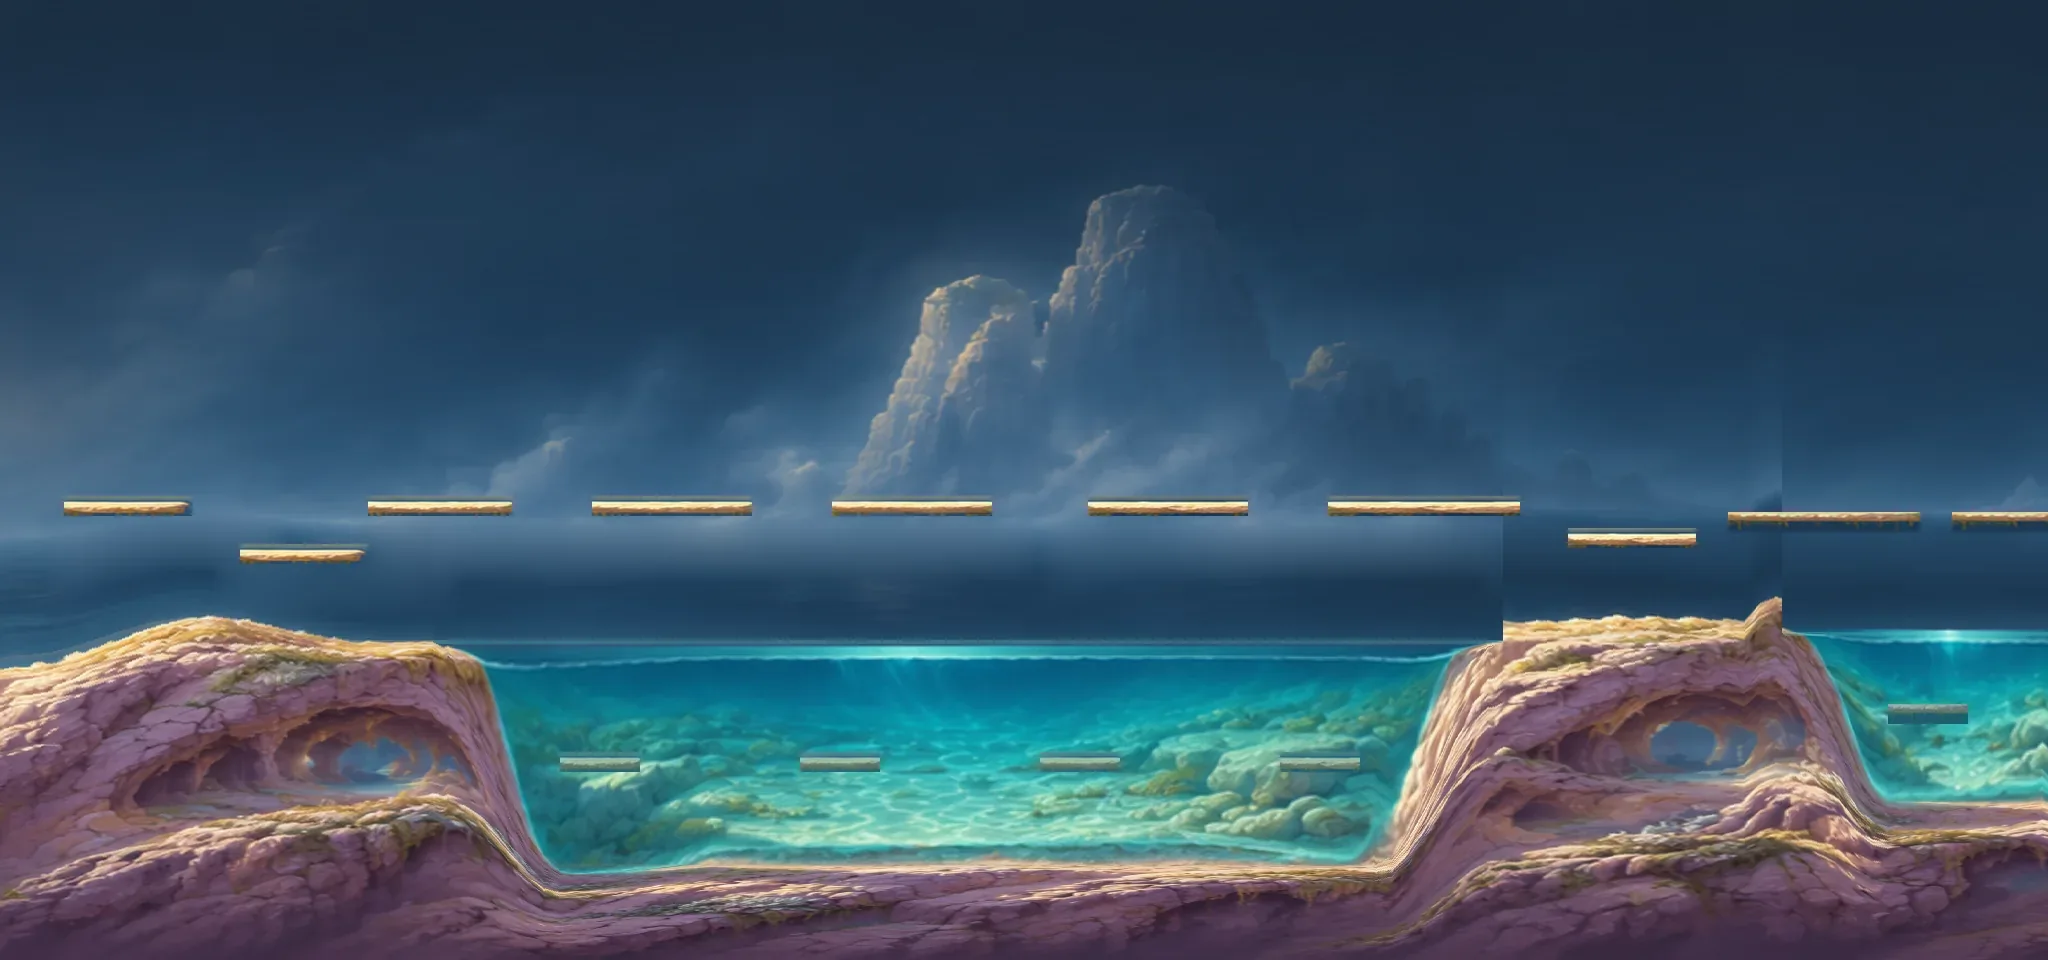
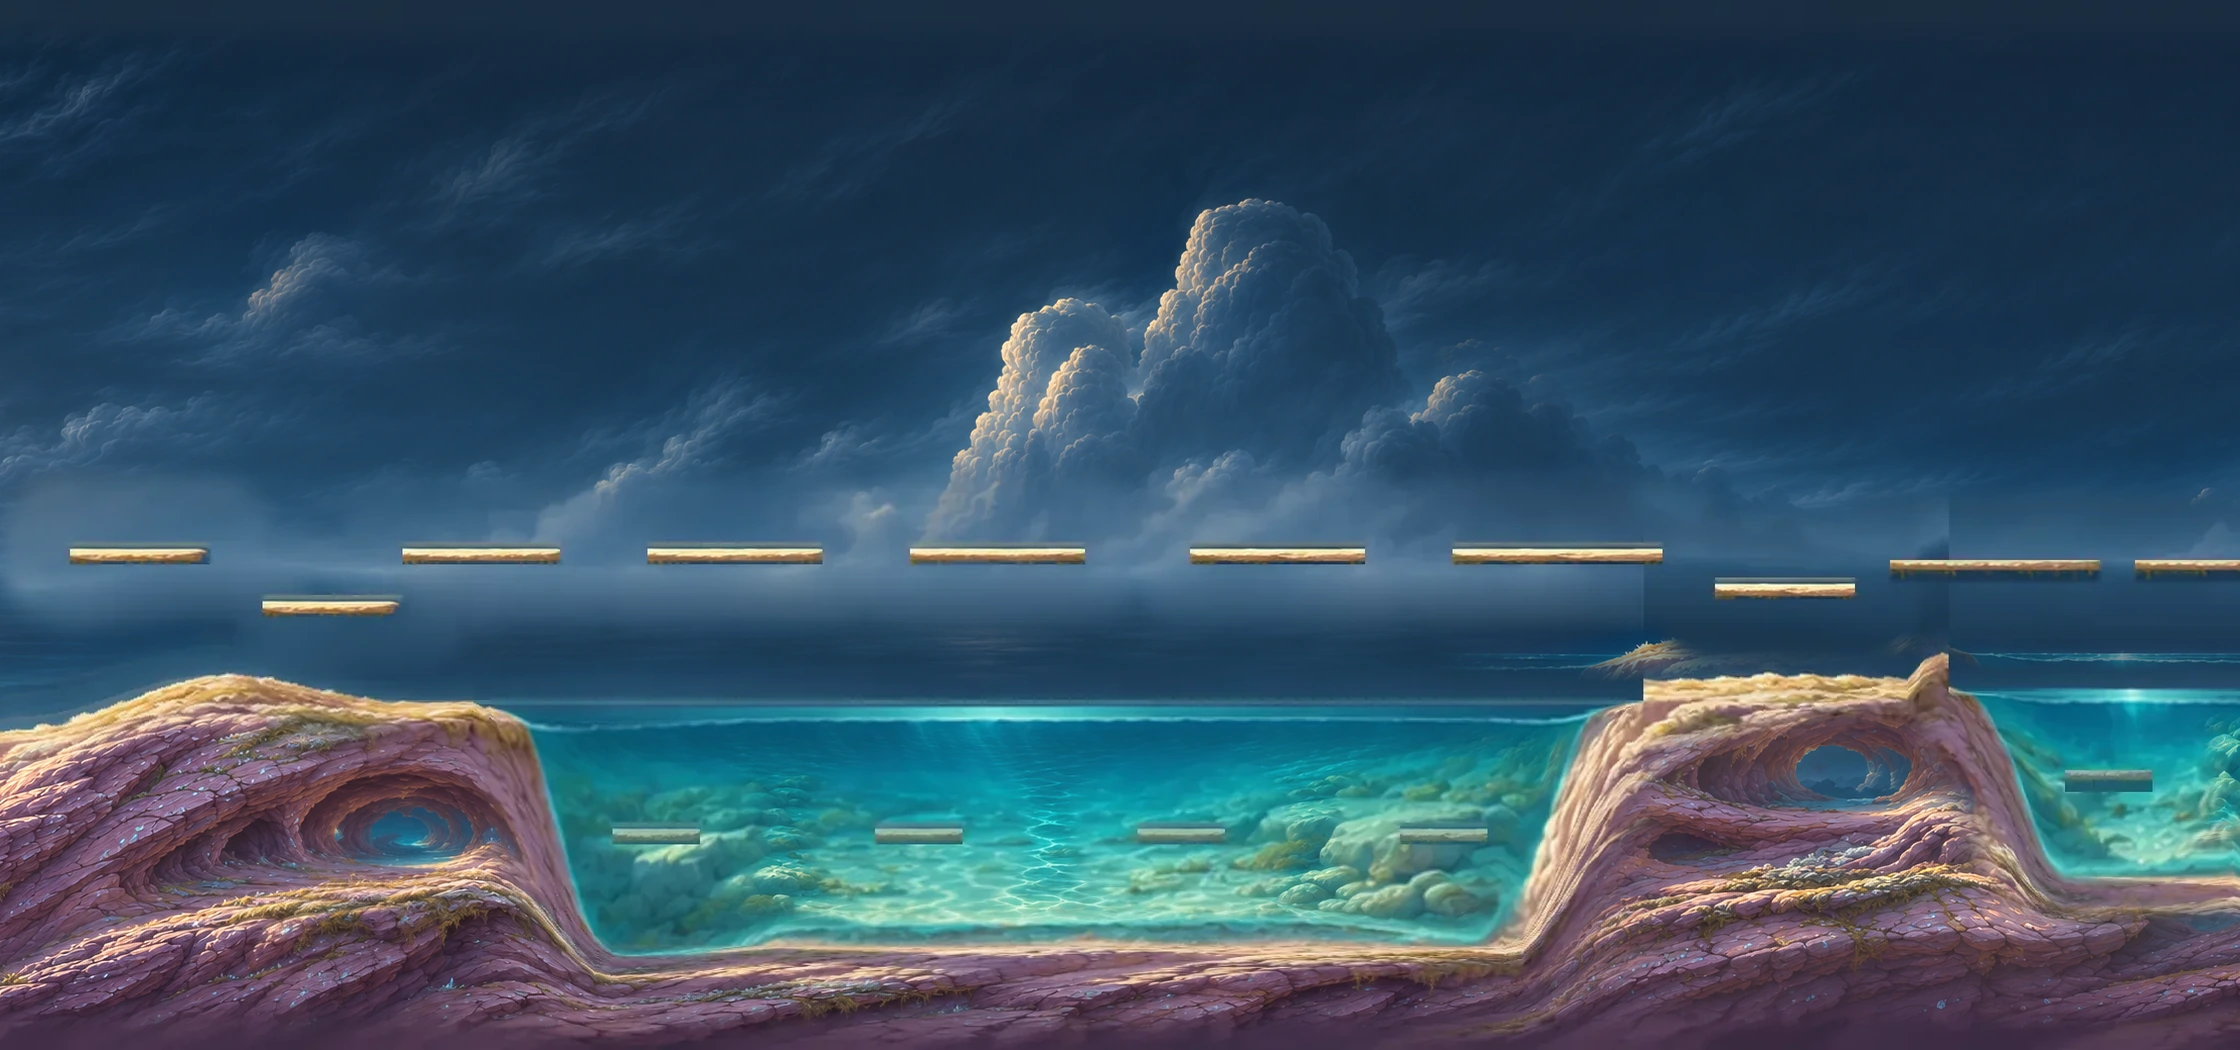
Refine Crystal Coast in four registered high-resolution crops

diff --git a/phaser/src/painted-scene.js b/phaser/src/painted-scene.js
@@ -15,14 +15,20 @@ export function sceneTextures(id,art){
 export function paintScene(scene,art){
   const width=scene.level.width*16,height=scene.level.height*16;
   const strips=art.scene?.length>1;
+  const images=sceneTextures(scene.chapter.id,art).map(({key,depth,scrollFactor})=>
+    scene.add.image(0,0,key).setOrigin(0).setDepth(depth).setScrollFactor(scrollFactor));
+  if(!strips){
+    for(const image of images)image.setDisplaySize(width,height);
+    return images;
+  }
+  const sourceWidth=images.reduce((sum,image)=>sum+image.width,0);
   let left=0;
-  return sceneTextures(scene.chapter.id,art).map(({key,depth,scrollFactor})=>{
-    const image=scene.add.image(left,0,key).setOrigin(0)
-      .setDepth(depth).setScrollFactor(scrollFactor);
-    if(strips)left+=image.width;
-    else image.setDisplaySize(width,height);
-    return image;
-  });
+  for(const image of images){
+    image.x=left*width/sourceWidth;
+    left+=image.width;
+    image.setDisplaySize(left*width/sourceWidth-image.x,height);
+  }
+  return images;
 }
 
 // Thermals are active traversal aids and stay separate from the scene painting.

diff --git a/phaser/ART-DIRECTION.md b/phaser/ART-DIRECTION.md
@@ -43,10 +43,11 @@ chapter directory as the image model's input. It contains only materials.
    A single panorama may use more source pixels than the world. Keep the
    same aspect ratio and a maximum texture edge of 4096 pixels. The
    renderer fits it to the existing world size.
-   The `scene` array lists strips from left to right. For worlds wider than
-   4096 pixels, cut the finished painting into contiguous native-sized
-   strips, currently 2048 pixels wide except the last strip. This fits
-   common WebGL limits and keeps the art continuous. Skywell uses the same
+   The `scene` array lists strips from left to right. For paintings wider
+   than 4096 pixels, cut the finished painting into contiguous strips.
+   Record the seams against world coordinates. The renderer maps each
+   strip's share of the source width to the same share of the world and
+   scales all strips to the world height. Skywell uses the same
    registry and renderer with separate background, water, and solid layers.
 4. Run `npm run check --prefix phaser`, open the standalone HTML, and use
    **V** to compare the art with collision at gameplay zoom. Check
@@ -88,3 +89,19 @@ The script feathers the approved painting around material boundaries
 while keeping the refined bark, foliage, and rock interiors. Review the
 protected result at 2× gameplay zoom and check that each ledge still has
 one readable edge before replacing the registered texture.
+
+## Crystal Coast refinement
+
+Crystal Coast keeps its 4704 × 960 world and uses a 5145 × 1050 painting.
+Crop the registered painting and guide into 1368 × 960 regions at x 0,
+1112, 2224, and 3336. The four native returns were 1497 × 1051. Fit them
+to 1497 × 1050 and use the approved crop's broad values and colors to
+match lighting through each overlap. Protect terrain edges with a 28-world-pixel
+margin before stitching. At x 0, 1216, 2432, and 3648 the 281-pixel overlaps
+measured 11.88, 8.51, and 9.63 mean absolute RGB error in their highest channels.
+
+At full scale the first stitched proof showed faint duplicate ledges.
+Composite the approved painting around ledges out to 44 world pixels,
+feathering to the refined art at 78. Check the shoreline, ledge, and strip
+seams at 2×. Cut the final painting at source x 2240 and 4480, which match
+world x 2048 and 4096, and export each strip as WebP.

diff --git a/phaser/ASSETS.md b/phaser/ASSETS.md
@@ -10,7 +10,7 @@ guide. The draft ledges were cleaned up and painted ledge detail was
 aligned to the compiled one-way spans. The last four scenes are stored
 as contiguous strips cut from one finished composition per chapter.
 
-| Chapter | Generated source | Registered world |
+| Chapter | Initial generated source | Registered world |
 | --- | --- | --- |
 | Mosslight Meadow | 2115 × 744 | 2368 × 832 |
 | Crystal Coast | 2172 × 724 | 4704 × 960 |
@@ -18,8 +18,10 @@ as contiguous strips cut from one finished composition per chapter.
 | Willow Wetlands | 2172 × 724 | 5184 × 992 |
 | Cloud Gardens | 2172 × 724 | 5408 × 1280 |
 
-The registered dimensions describe placement. These are resized preview
-paintings, with scope for a later native-detail art pass.
+The registered dimensions describe placement. First Forest uses a
+3256 × 1144 refinement and Crystal Coast uses a 5145 × 1050 refinement.
+The latter is stored as three contiguous 1050-pixel-tall strips. See the
+[surface art workflow](ART-DIRECTION.md) for crop and registration details.
 
 ## Luminous Grotto panorama
 

diff --git a/AGENTS.md b/AGENTS.md
@@ -62,8 +62,12 @@ for the explorer, mount, and rider pose plans.
   Use the same crop coordinates for the artwork and material guide and
   supply an approved neighbor as each new crop's reference. Keep native
   patch detail, check overlaps before stitching, and preserve approved
-  terrain contacts. Follow the [First Forest example](phaser/ART-DIRECTION.md)
-  and inspect joins, ledges, and shorelines at gameplay zoom with **V**.
+  terrain contacts. Where a refinement shifts a ledge, feather a wide
+  enough band of the approved painting around it to remove the duplicate.
+  Stitch wide panoramas before cutting contiguous runtime strips. The game
+  scales the strips together to the original world bounds. Follow the
+  [First Forest and Crystal Coast examples](phaser/ART-DIRECTION.md) and
+  inspect joins, ledges, and shorelines at gameplay zoom with **V**.
 - Check texture dimensions against the renderer's 4096-pixel limit and
   compare the standalone build size before and after. Commit verified
   assets individually with their pose data or registration changes.
